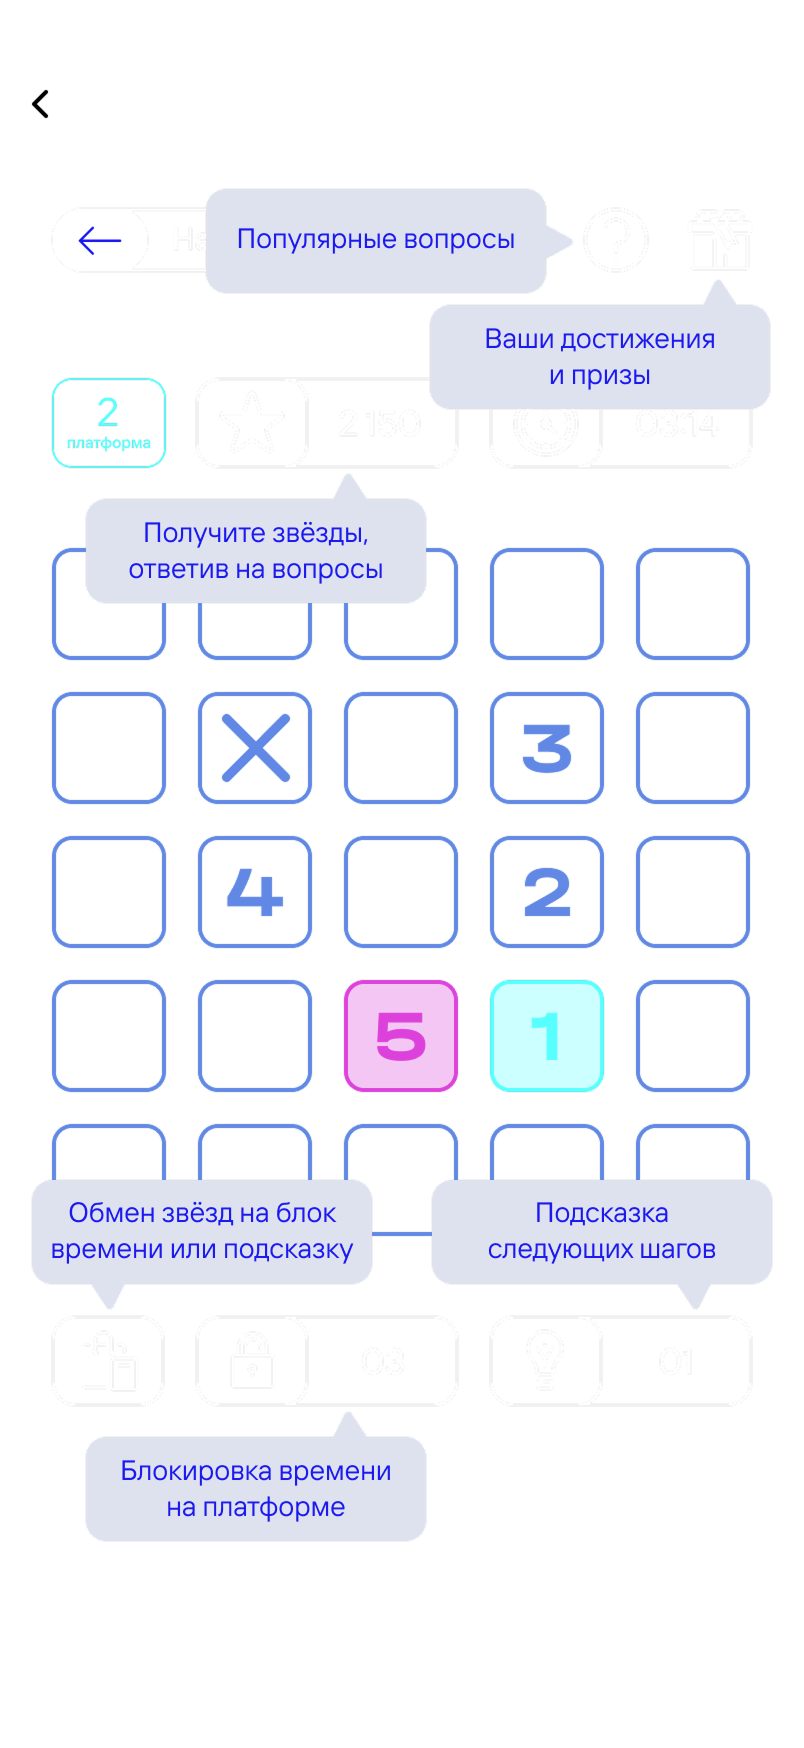
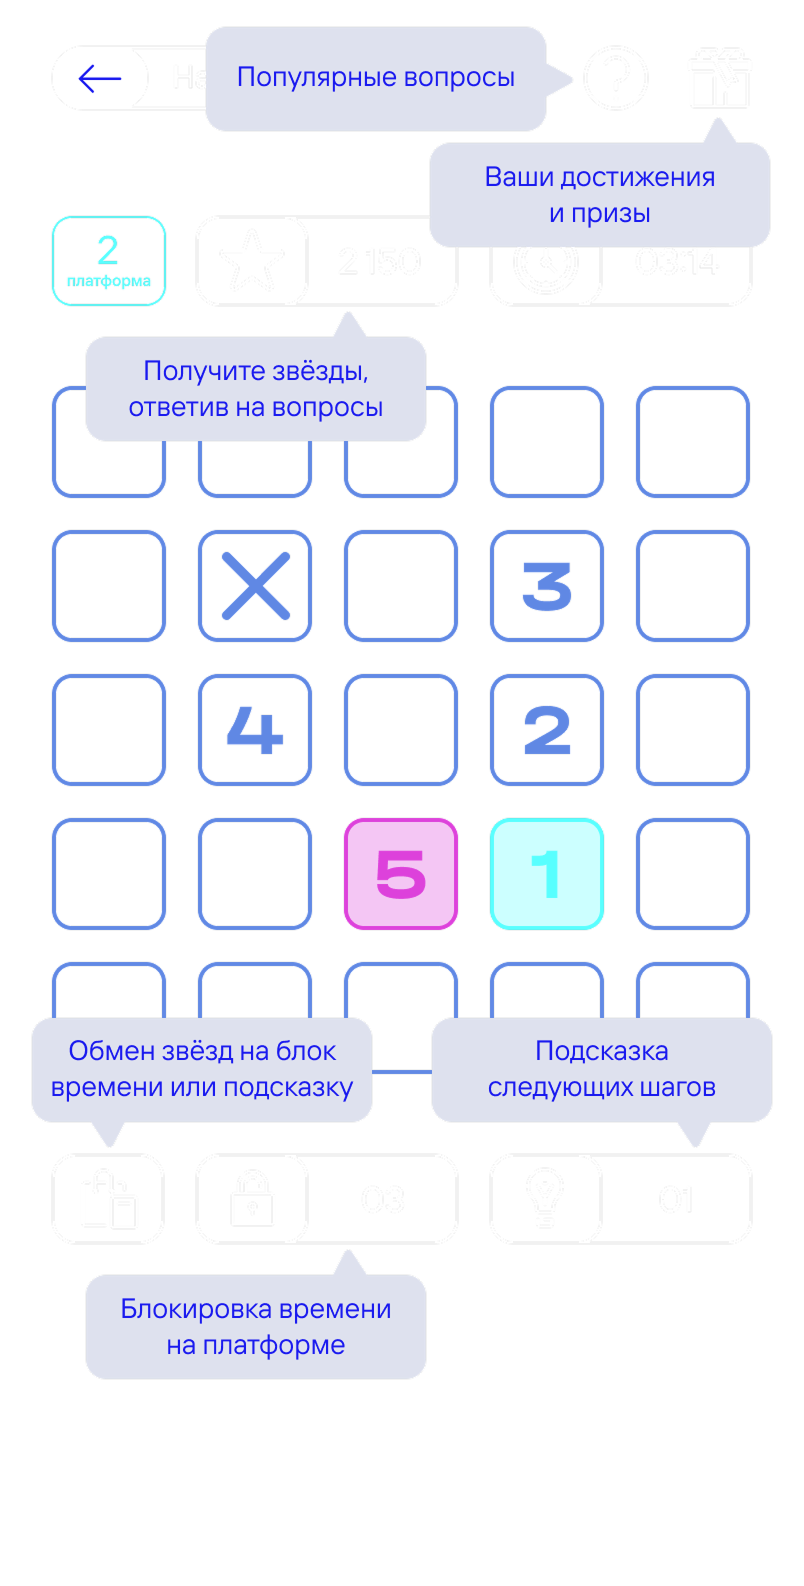
Обновлен экран демонстрации: добавлен фон и улучшено позиционирование элементов, изменены классы для кнопок и изображения.

Changed region(s): [[0.0311, 0.0, 0.9639, 0.7415], [0.0933, 0.7724, 0.5286, 0.896], [0.0933, 0.0309, 0.1244, 0.0618]]

diff --git a/src/routes/LinkNumberDemoRoute.tsx b/src/routes/LinkNumberDemoRoute.tsx
@@ -5,15 +5,22 @@ const LinkNumberDemoRoute = () => {
   const navigate = useNavigate();
 
   return (
-    <main className="main-bg flex min-h-screen bg-[var(--color-surface)] justify-center">
+    <main className="main-bg relative flex min-h-screen justify-center bg-[var(--color-surface)]">
       <div
-        className="relative flex w-full max-w-[25rem] flex-col gap-7 justify-between text-[var(--color-on-surface)]"
+        className="tutorial-overlay absolute inset-0 z-0 pointer-events-none"
+        aria-hidden="true"
+      />
+      <div
+        className="relative z-10 flex w-full max-w-[25rem] flex-col gap-7 px-4 pb-0 pt-0 text-[var(--color-on-surface)]"
         aria-label="Как играть — подсказки"
       >
-        <img src={demo} alt="Как играть — подсказки" />
+        <img src={demo} alt="Как играть — подсказки" className="w-full" />
+      </div>
+
+      <div className="fixed inset-x-0 bottom-0 z-20 flex justify-center px-4 pb-6">
         <button
           type="button"
-          className="w-full rounded-[13px] border-0 bg-[var(--color-violet)] px-4 py-3"
+          className="w-full max-w-[25rem] rounded-[13px] border-0 bg-[var(--color-violet)] px-4 py-3"
           onClick={() => navigate(routes.game)}
         >
           <span className="font-medium text-white text-1">Играть</span>

diff --git a/src/screens/GameScreen.tsx b/src/screens/GameScreen.tsx
@@ -55,16 +55,19 @@ export const GameScreen = ({ onShowGifts, onShowFaq, onStartLinkNumber }: GameSc
             draggable={false}
           />
 
-          <section className="flex justify-center" aria-label="Панель управления">
+          <div
+            className="fixed inset-x-0 bottom-0 z-20 flex justify-center px-4 pb-6"
+            aria-label="Панель управления"
+          >
             <button
               onClick={onStartLinkNumber}
               type="button"
-              className="button-blur w-full"
+              className="button-blur w-full max-w-[25rem]"
               aria-label={'Пройти платформу!'}
             >
               <span className="text-[var(--color-raspberry)]">Пройти платформу!</span>
             </button>
-          </section>
+          </div>
         </div>
       </main>
 
